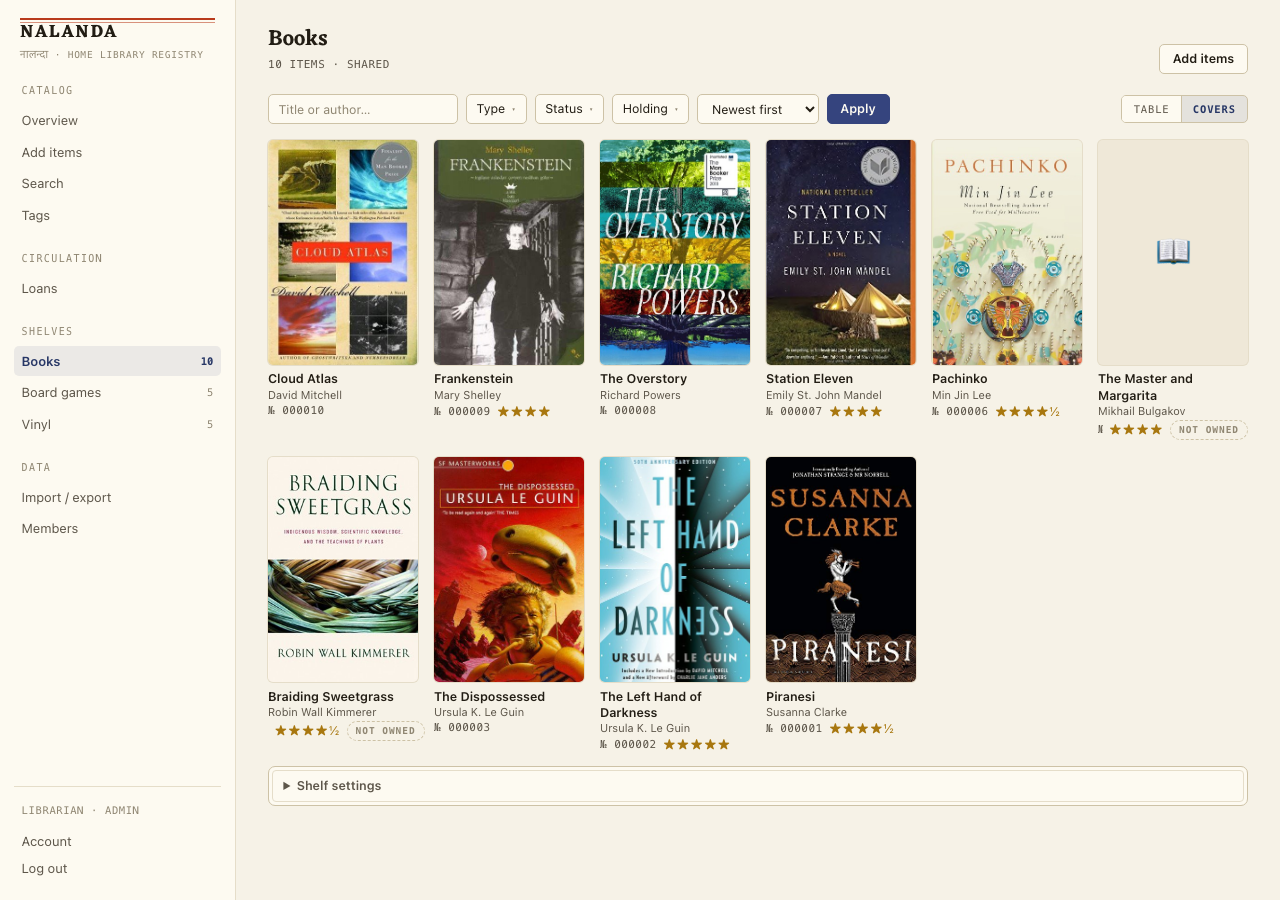
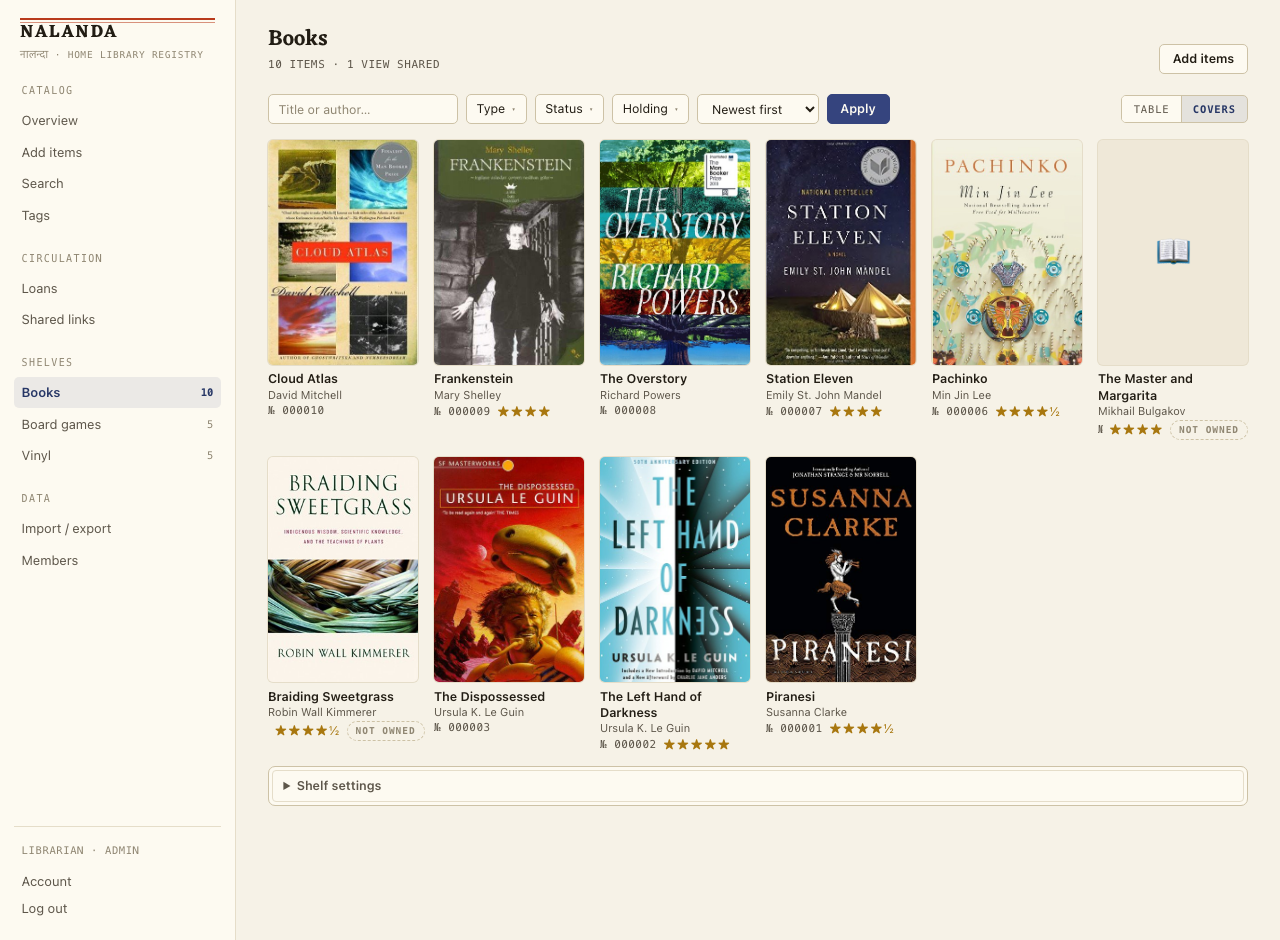
docs: refresh screenshots for the shared-links work
Three of the shots showed a shelf labelled SHARED when only a filtered view of
it was published — the bug fixed in 5d40f50. The demo seed now publishes two
links with different scopes, so the overview demonstrates all three visibility
states at once: a filtered view, a private shelf, and a whole shelf.

Also keeps row actions on one line and lets a share URL fold, so the links table
stops overflowing its container.

diff --git a/public/app.css b/public/app.css
@@ -346,7 +346,11 @@ p.error { font-size: 12.5px; background: var(--stamp-tint); border-left: 3px sol
 .data-table tbody tr:last-child td { border-bottom: none; }
 .data-table tbody tr:hover { background: var(--accent-tint); }
 .data-table .num, .data-table .date { font-family: var(--mono); font-size: 12px; color: var(--ink-2); white-space: nowrap; }
-.data-table .actions-cell { text-align: right; white-space: nowrap; }
+.data-table .actions-cell { text-align: right; white-space: nowrap; width: 1%; }
+/* row actions stay on one line — the cell is narrow, and a wrapped pair reads as two rows */
+.data-table .actions-cell .inline-form { flex-wrap: nowrap; justify-content: flex-end; }
+/* a share URL is one long unbreakable token; let it fold instead of widening the table */
+.break-anywhere { overflow-wrap: anywhere; }
 
 /* max-width caps the title column under auto table layout so a long title
    truncates with an ellipsis instead of crowding every other column out */

diff --git a/src/routes/shares.tsx b/src/routes/shares.tsx
@@ -72,7 +72,7 @@ shares.get('/shares', async (c) => {
                     <td>
                       <strong>{v.name}</strong>
                       <br />
-                      <a href={`${origin}/share/${v.token}`} class="mono">
+                      <a href={`${origin}/share/${v.token}`} class="mono break-anywhere">
                         {origin}/share/{v.token}
                       </a>
                     </td>

diff --git a/README.md b/README.md
@@ -38,12 +38,18 @@ See [ARCH.md](ARCH.md) for the design and the reasoning behind it.
 
 | | |
 |---|---|
-| ![The overview page: owned and not-owned counts, shelves, loans, recent additions](docs/screenshots/overview.png) | ![A shelf in table view: title, type, year, rating, status, tags, accession number](docs/screenshots/shelf-table.png) |
-| **Overview** — what's owned, what's only read, what's out on loan. | **The ledger view** — every shelf reads as a catalogue card, down to the accession number. |
+| ![The overview page: owned and not-owned counts, shelves with their visibility, loans, recent additions](docs/screenshots/overview.png) | ![A shelf in table view: title, type, year, rating, status, tags, accession number](docs/screenshots/shelf-table.png) |
+| **Overview** — what's owned, what's only read, what's out on loan, and how public each shelf is. | **The ledger view** — every shelf reads as a catalogue card, down to the accession number. |
 | ![An item page showing cover, catalogue fields, review, and the lending form](docs/screenshots/item.png) | ![A public share page listing finished books, with no sidebar or account links](docs/screenshots/share.png) |
 | **An item** — metadata auto-filled from the barcode, your rating and review below it. | **A published share** — one filtered view, its own link. No notes, no loans, no way back into the app. |
 
-The whole thing has a lamp-lit dark mode that follows the system setting:
+Because publishing is the only way anything leaves the app, everything you've published
+gets one page — each link's scope, the number of items it exposes right now, and rotate or
+remove on the spot:
+
+![The shared links page: two published links, one scoped to finished books, one to a whole shelf](docs/screenshots/shares.png)
+
+And a lamp-lit dark mode that follows the system setting:
 
 ![The same shelf in dark mode — warm blacks, pigments glowing](docs/screenshots/shelf-dark.png)
 
